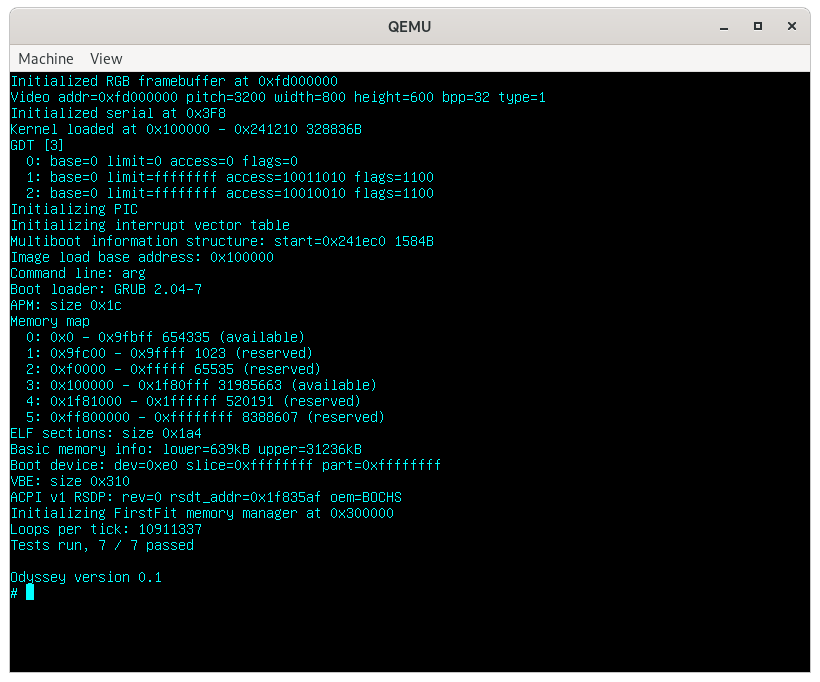
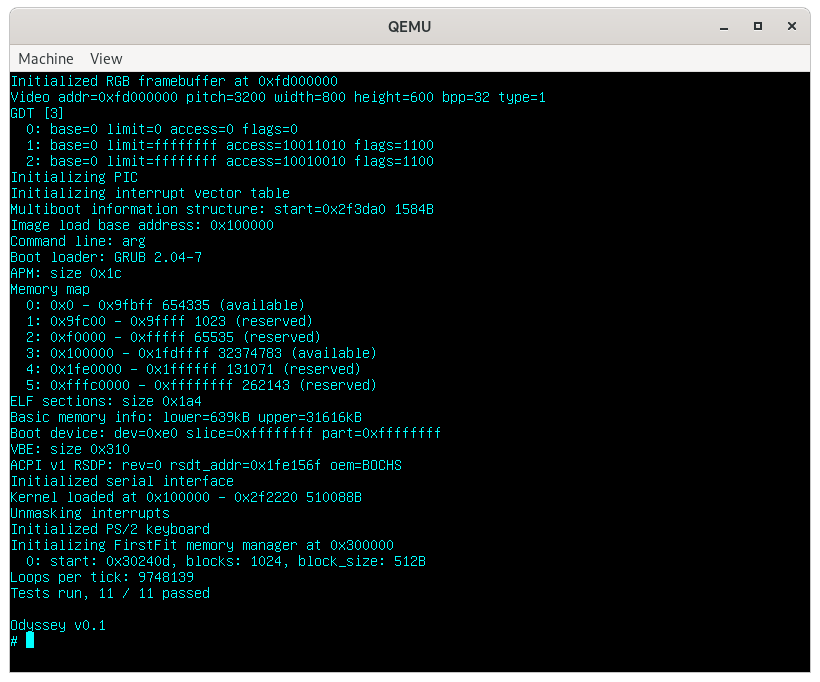
Screenshot

diff --git a/src/sys/ffmm.c b/src/sys/ffmm.c
@@ -142,14 +142,10 @@ void init_mm()
         superblock = create_superblock(MEM_START_ADDR,
                                        MEM_START_ADDR,
                                        MEM_END_ADDR);
-        create_superblock((uint32_t) superblock, 0x400000, 0x480000);
-        create_superblock((uint32_t) superblock, 0x500000, 0x580000);
 #elif ARCH_ARM
         superblock = create_superblock(MEM_START_ADDR,
                                        MEM_START_ADDR,
                                        MEM_END_ADDR);
-        create_superblock((uint32_t) superblock, 0x90400000, 0x90480000);
-        create_superblock((uint32_t) superblock, 0x90500000, 0x90580000);
 #endif
         print_superblocks(NULL);
 }
